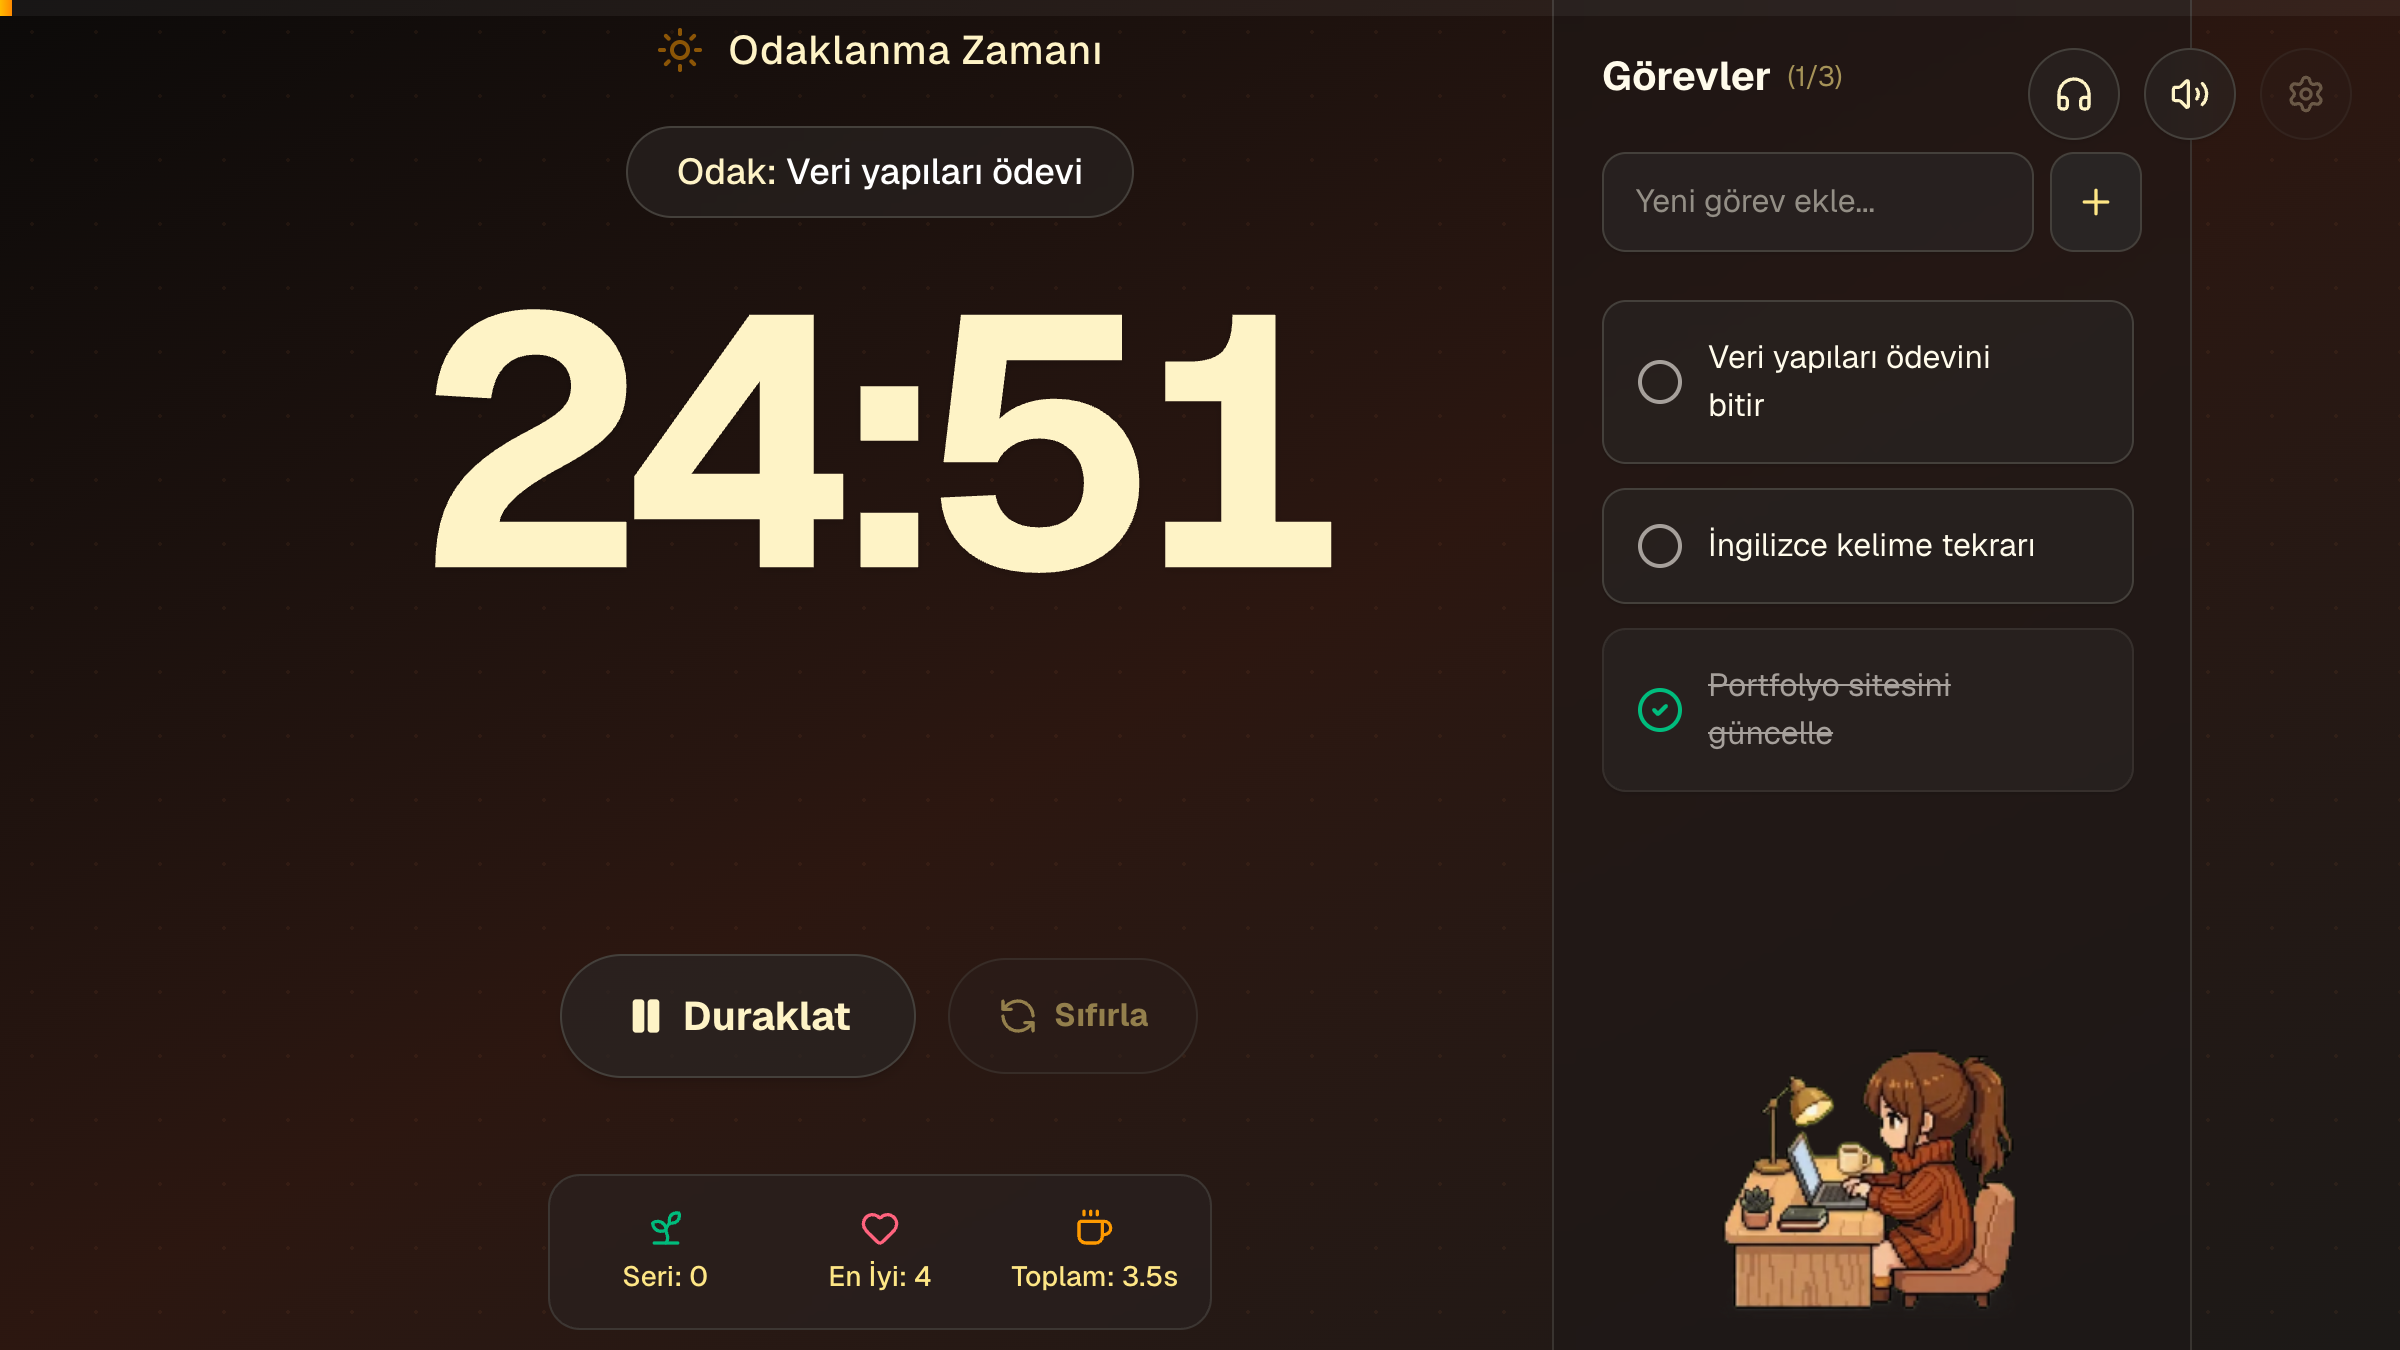
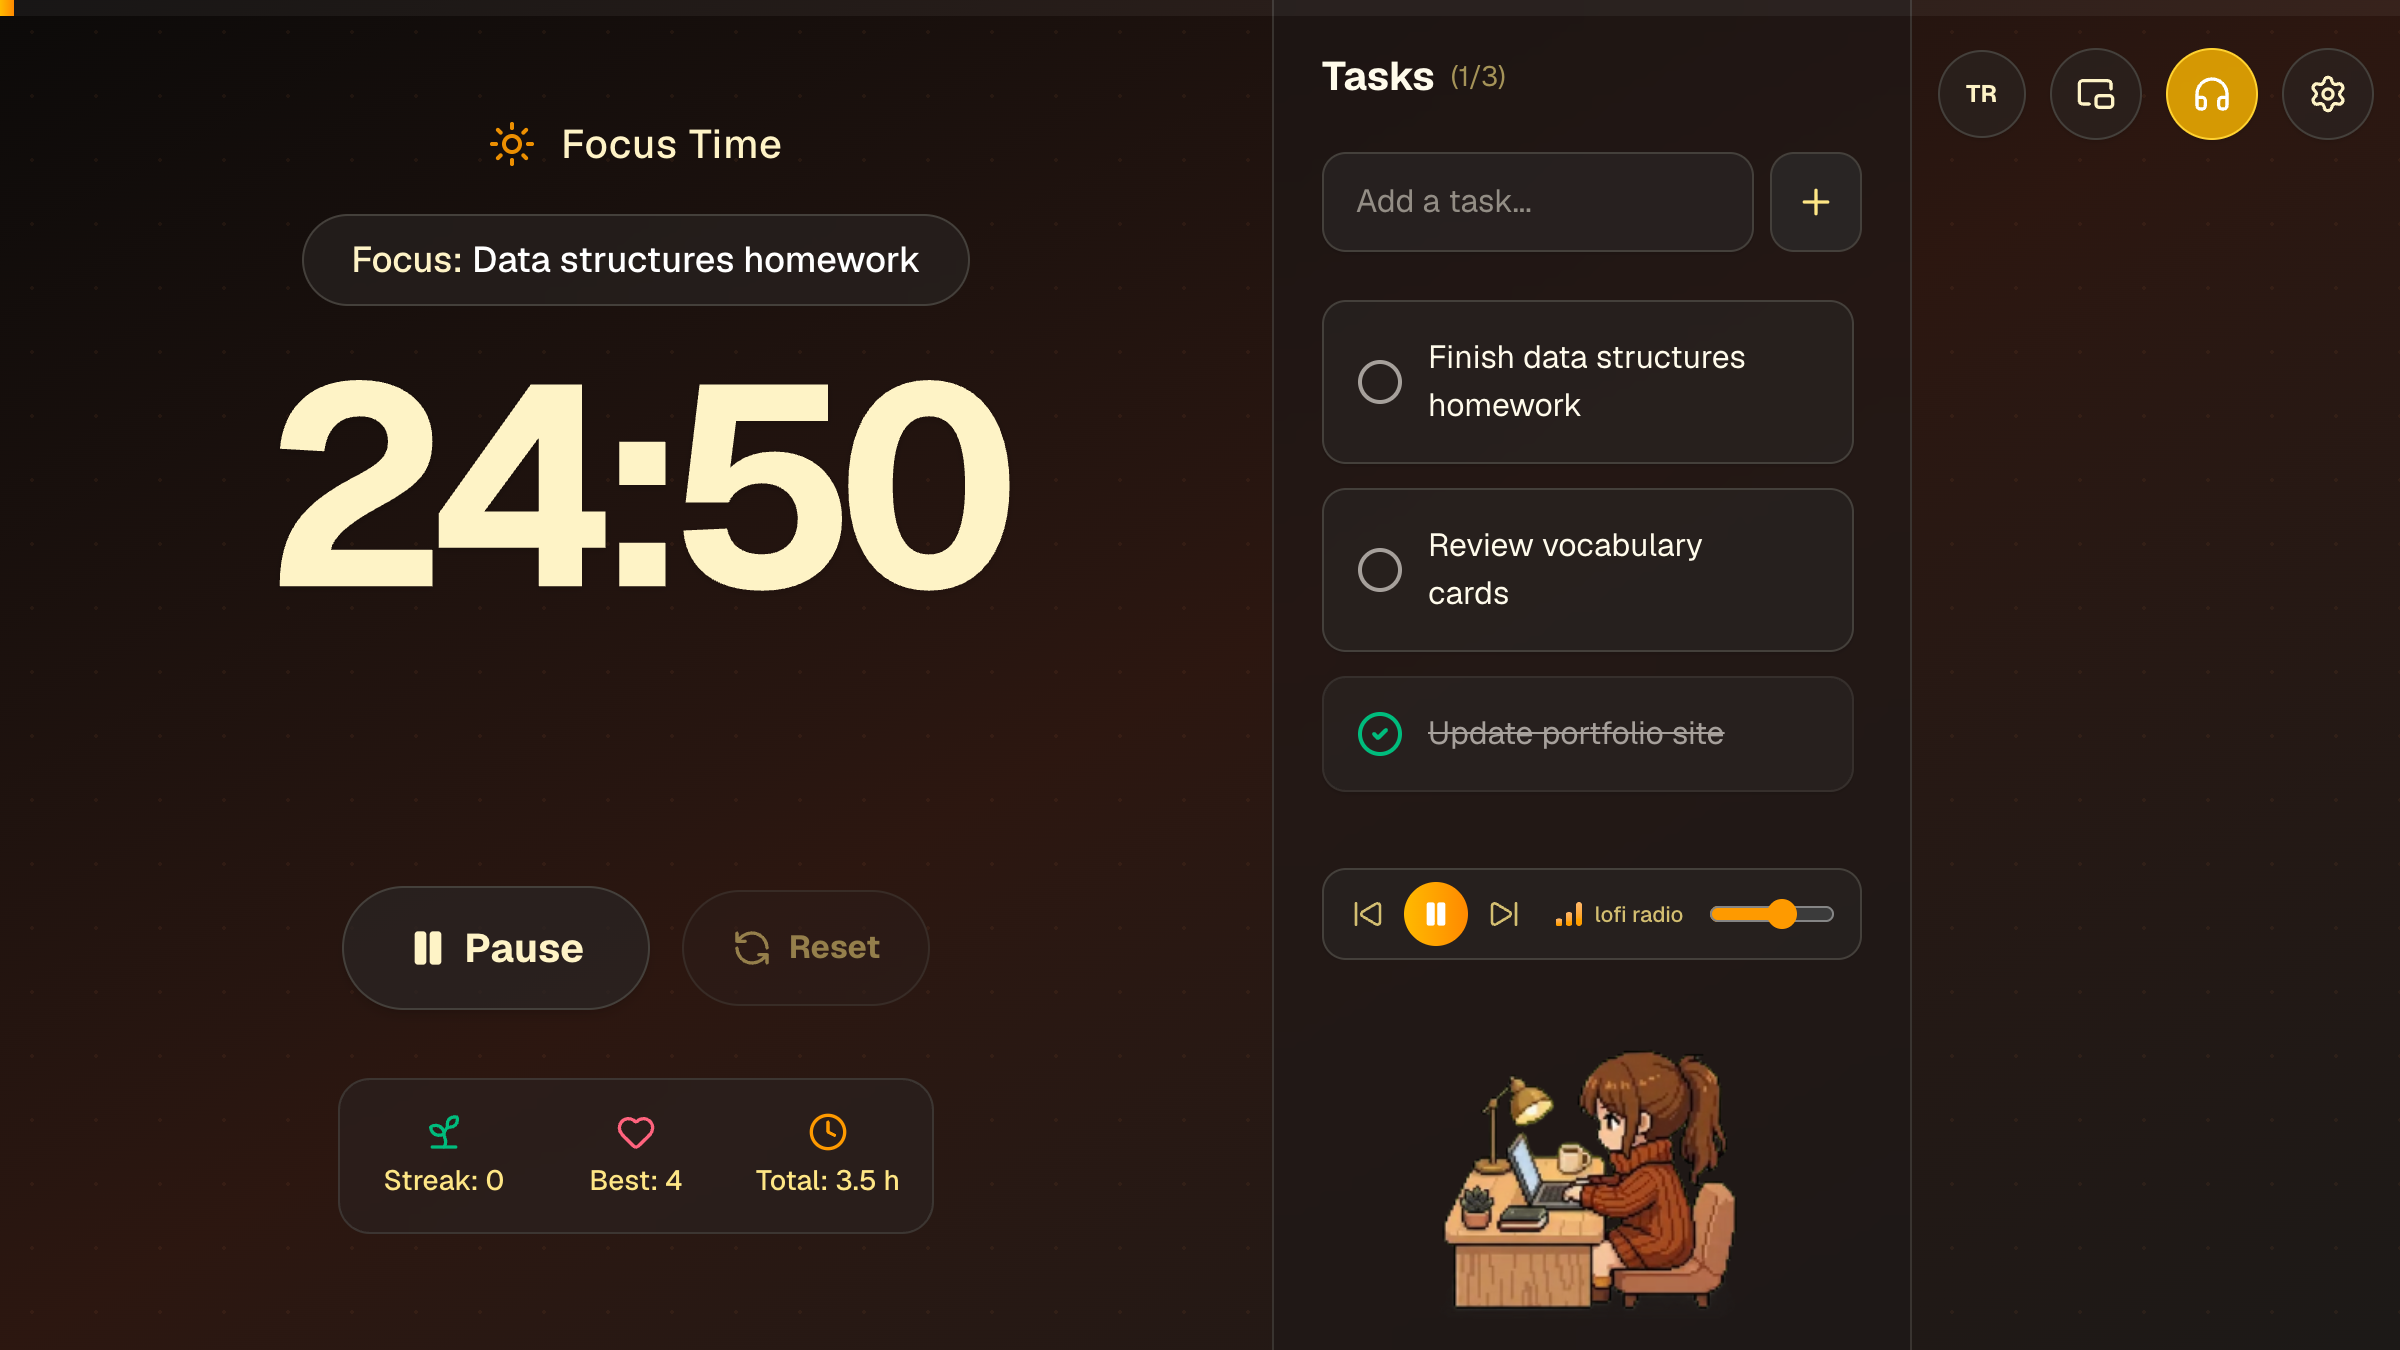
Update Cozy Pomodoro card with lofi radio, mini player and bilingual UI

diff --git a/index.html b/index.html
@@ -102,10 +102,10 @@
           </article>
 
           <article class="project-card">
-            <img src="assets/cozy-pomodoro.png" alt="Screenshot of Cozy Pomodoro showing a running focus timer, a task list, and a pixel-art character typing at her desk">
+            <img src="assets/cozy-pomodoro.png" alt="Screenshot of Cozy Pomodoro showing a running focus timer, a task list, the lofi radio bar, and a pixel-art character typing at her desk">
             <div class="card-content">
               <h3>Cozy Pomodoro</h3>
-              <p>A calm Pomodoro timer with a pixel-art companion who follows your sessions: she types at her desk while you focus, rests her hands when you pause, and walks over to the couch when a break starts. The character is a chain of <span class="accent-number">8</span> AI-generated green-screen clips keyed live on a canvas, with transition clips so she never jumps between states.</p>
+              <p>A calm Pomodoro timer with a pixel-art companion who follows your sessions: she types while you focus, rests when you pause and walks to the couch on breaks. She is a chain of <span class="accent-number">8</span> AI-generated green-screen clips keyed live on a canvas. It also has a built-in lofi radio, an always-on-top mini player window, and English and Turkish versions.</p>
               <div class="tech-tags">Next.js · TypeScript · React · Canvas</div>
               <div class="links-row">
                 Links: <a href="https://cozy-pomodoro-app.vercel.app" target="_blank" rel="noopener noreferrer">Live demo</a>
